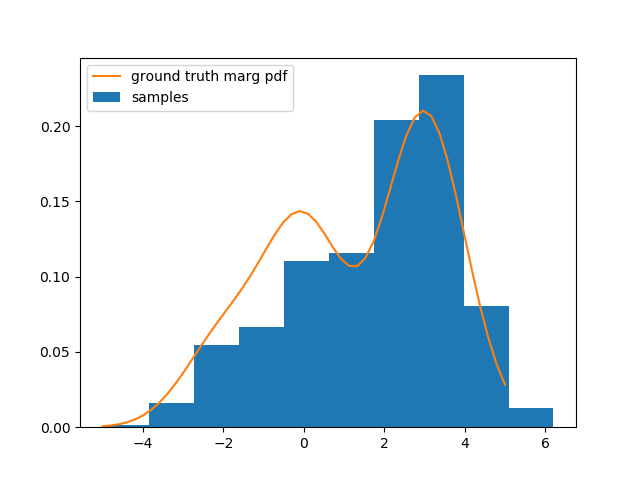
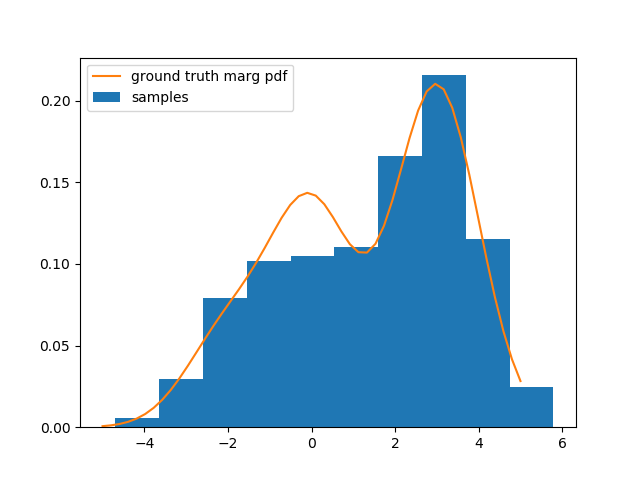
minor refactoring in test_hybrid.py to also test drv marg; add test_hybrid2 with 2 disc nodes (and 2 cont nodes)

diff --git a/gibbs/test_hybrid2.py b/gibbs/test_hybrid2.py
@@ -7,7 +7,9 @@ from Potential import LogTable, LogQuadratic, LogHybridQuadratic
 import numpy as np
 from hybrid_gaussian_mrf import convert_to_bn, block_gibbs_sample, get_crv_marg, get_drv_marg
 
-rvs = [RV(domain=Domain(values=(0, 1, 2), continuous=False)), RV(domain=Domain(values=(-5, 5), continuous=True)),
+rvs = [RV(domain=Domain(values=(0, 1, 2), continuous=False)),
+       RV(domain=Domain(values=(0, 1), continuous=False)),
+       RV(domain=Domain(values=(-5, 5), continuous=True)),
        RV(domain=Domain(values=(-5, 5), continuous=True))]
 N = len(rvs)
 Vd = [rv for rv in rvs if rv.domain_type[0] == 'd']  # list of of discrete rvs
@@ -20,11 +22,12 @@ Vc_idx = {n: i for (i, n) in enumerate(Vc)}
 covs = np.array([np.eye(Nc)] * 3)
 # means = np.array([[0., 0.], [0., 1.], [1., 0.]])
 means = np.array([[-2., -2.], [0., 1.], [3., 0.]])
-factors = [F(nb=(rvs[0], rvs[1], rvs[2]),
+factors = [F(nb=(rvs[0], rvs[2], rvs[3]),
              log_potential_fun=LogHybridQuadratic(A=-0.5 * covs,
                                                   b=means,
                                                   c=-0.5 * np.array([np.dot(m, m) for m in means]))),
-           F(nb=(rvs[0],), log_potential_fun=LogTable(np.array([-0.1, 0, 0.2]))),
+           F(nb=(rvs[0],), log_potential_fun=LogTable(np.array([-0.1, 0, 2.]))),
+           F(nb=(rvs[0], rvs[1]), log_potential_fun=LogTable(np.array([[2., 0], [-0.1, 1], [0, 0.2]]))),
            F(nb=(rvs[2],), log_potential_fun=LogQuadratic(A=-0.5 * np.ones([1, 1]), b=np.zeros([1]), c=0.))
            ]
 
@@ -44,17 +47,17 @@ bn = convert_to_bn(factors, Vd, Vc)
 print('BN params', bn)
 
 num_burnin = 200
-num_samples = 1000
+num_samples = 500
 disc_samples, cont_samples = block_gibbs_sample(factors, rvs=None, Vd=Vd, Vc=Vc, num_burnin=num_burnin,
                                                 num_samples=num_samples,
-                                                disc_block_its=2)
+                                                disc_block_its=20)
 
 test_drv_idx = 0
 print('true test drv marg', get_drv_marg(bn[0], Vd_idx, Vd[test_drv_idx]))
 print('sampled test drv marg', np.bincount(disc_samples[:, test_drv_idx]) / num_samples)
 
-test_crv_idx = 0
-# test_crv_idx = 1
+# test_crv_idx = 0
+test_crv_idx = 1
 test_crv_marg_params = get_crv_marg(*bn, Vc_idx, Vc[test_crv_idx])
 print('true test crv marg params', test_crv_marg_params)
 
